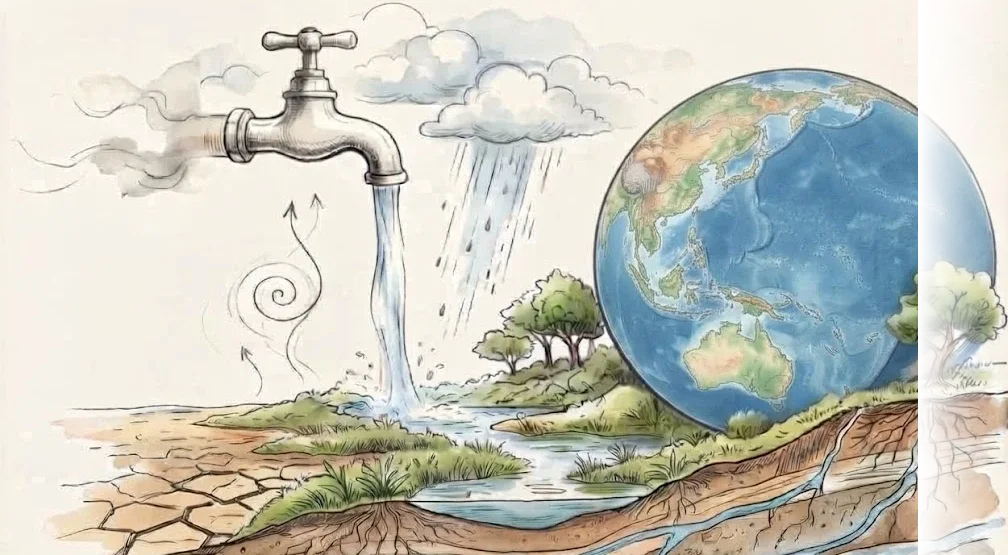
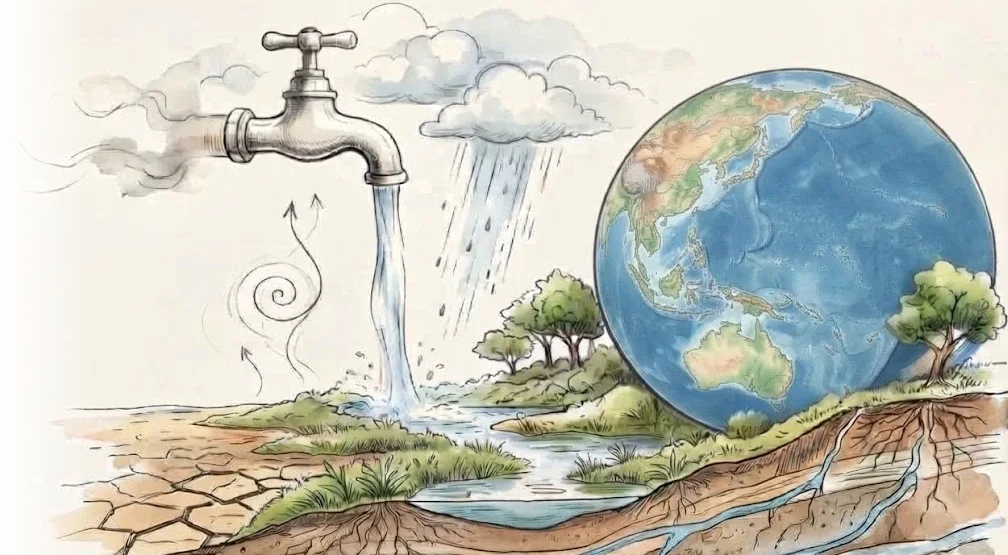
Home hero art: fade the left edge, not the right

diff --git a/_pages/about.md b/_pages/about.md
@@ -25,7 +25,7 @@ latest_posts:
   .post > .post-header {
     display: flex; flex-direction: column; justify-content: center;
     min-height: 14.5rem; padding: 2rem calc(14.5rem * 1.816 + 1rem) 2rem 2.5rem; margin: 0.5rem 0 1.75rem; border-radius: 0.75rem;
-    background: #f7f1e7 url("/assets/img/home/hero-art.webp?v=2026-10-20") no-repeat right center / auto 100%;
+    background: #f7f1e7 url("/assets/img/home/hero-art.webp?v=2026-10-20b") no-repeat right center / auto 100%;
   }
   .post > .post-header .post-title { font-family: Georgia, "Times New Roman", serif; font-weight: 700; font-size: 2.6rem; line-height: 1.1; color: #2b2a28; margin: 0 0 0.75rem; }
   .post > .post-header .desc { color: #3b3a37; font-size: 1.1rem; margin: 0; }
